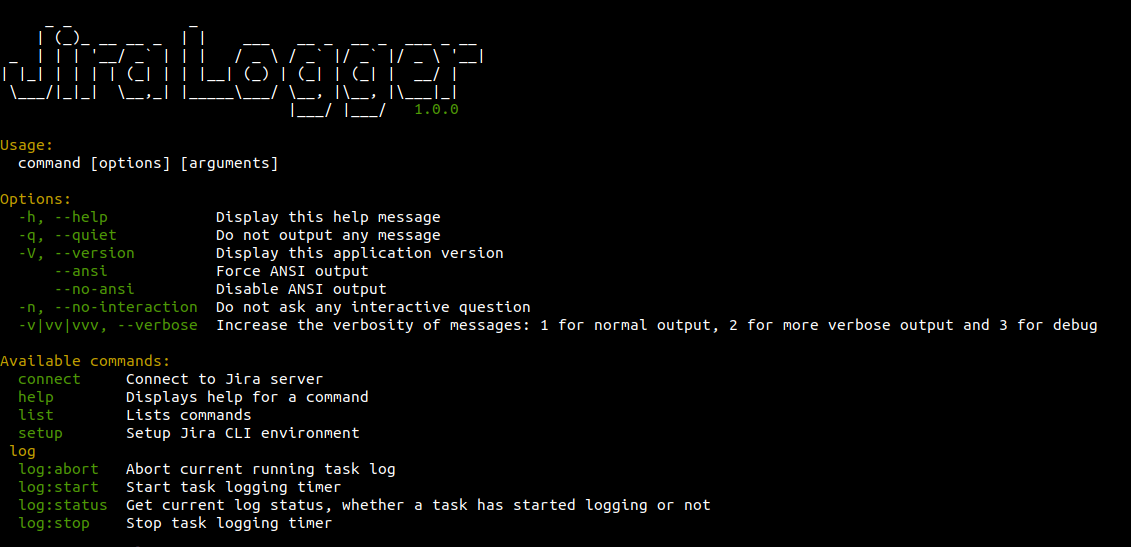
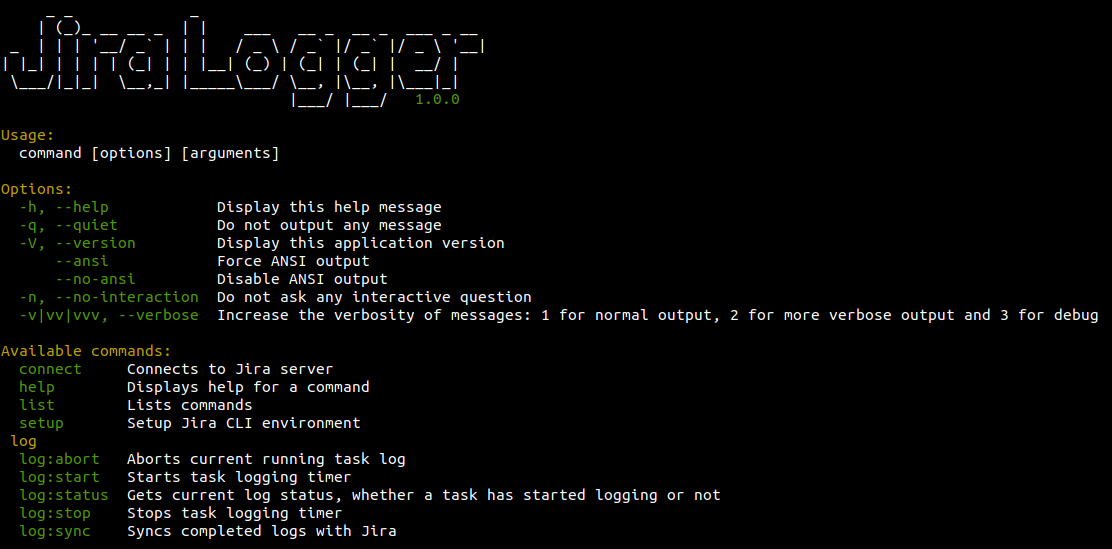
Issue-24
Correct commands description spelling

Changed region(s): [[0.0, 0.2176, 1.0, 0.9945], [0.0, 0.0311, 0.4281, 0.2176]]

diff --git a/src/Commands/StartCommand.php b/src/Commands/StartCommand.php
@@ -36,22 +36,22 @@ class StartCommand extends Command
     protected function configure()
     {
         $this->setName('log:start')
-             ->setDescription('Start task logging timer')
+             ->setDescription('Starts task logging timer')
              ->addArgument(
                  'task id',
                  InputArgument::REQUIRED,
                  'Jira task ID. e.g. JIRA-123'
              )->addOption(
                  'time',
-                't',
-                InputOption::VALUE_REQUIRED,
-                'Task log start time in hh:ii format. e.g 13:01'
-            )->addOption(
-                'description',
-                'd',
-                InputOption::VALUE_REQUIRED,
-                'Task log description'
-            );
+                 't',
+                 InputOption::VALUE_REQUIRED,
+                 'Task log start time in hh:ii format. e.g 13:01'
+             )->addOption(
+                 'description',
+                 'd',
+                 InputOption::VALUE_REQUIRED,
+                 'Task log description'
+             );
     }
 
     /**

diff --git a/src/Commands/StatusCommand.php b/src/Commands/StatusCommand.php
@@ -37,7 +37,7 @@ class StatusCommand extends Command
     protected function configure()
     {
         $this->setName('log:status')
-             ->setDescription('Get current log status, whether a task has started logging or not');
+             ->setDescription('Gets current log status, whether a task has started logging or not');
     }
 
     /**

diff --git a/src/Commands/AbortCommand.php b/src/Commands/AbortCommand.php
@@ -38,7 +38,7 @@ class AbortCommand extends Command
     protected function configure()
     {
         $this->setName('log:abort')
-             ->setDescription('Abort current running task log')
+             ->setDescription('Aborts current running task log')
              ->addOption(
                  'yes',
                  'y',

diff --git a/src/Commands/ConnectCommand.php b/src/Commands/ConnectCommand.php
@@ -40,7 +40,7 @@ class ConnectCommand extends Command
     protected function configure()
     {
         $this->setName('connect')
-             ->setDescription('Connect to Jira server')
+             ->setDescription('Connects to Jira server')
              ->addOption(
                  'username',
                  'u',

diff --git a/src/Commands/StopCommand.php b/src/Commands/StopCommand.php
@@ -38,7 +38,7 @@ class StopCommand extends Command
     protected function configure()
     {
         $this->setName('log:stop')
-             ->setDescription('Stop task logging timer')
+             ->setDescription('Stops task logging timer')
              ->addOption(
                  'time',
                  't',

diff --git a/src/Commands/SyncCommand.php b/src/Commands/SyncCommand.php
@@ -54,7 +54,7 @@ class SyncCommand extends Command
     protected function configure()
     {
         $this->setName('log:sync')
-             ->setDescription('Sync completed logs with Jira');
+             ->setDescription('Syncs completed logs with Jira');
     }
 
     /**
